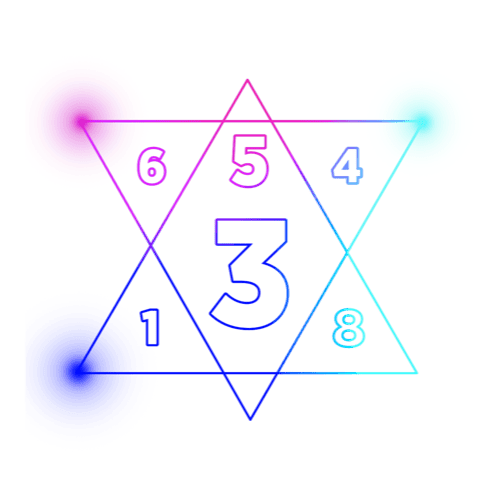
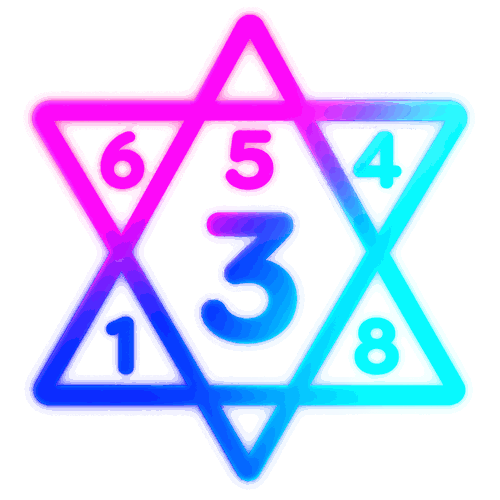
Numeroloji ikonu kalin cizgili; kahve falinda fincan uyarisi yuvalarin altinda

diff --git a/lib/presentation/coffee/coffee_screen.dart b/lib/presentation/coffee/coffee_screen.dart
@@ -47,6 +47,7 @@ class _CoffeeScreenState extends ConsumerState<CoffeeScreen> {
   String? _fincanImage;
   bool _kontrolEdiliyor = false;
   bool _sending = false;
+  bool _fincanYokUyari = false; // ilk görsel yeniden seçilince kalkar
 
   // ── Fal konusu ──────────────────────────────────────────────────────────
   String? _falKonusu;   // null = henüz seçilmedi (konu ekranı gösterilir)
@@ -92,6 +93,7 @@ class _CoffeeScreenState extends ConsumerState<CoffeeScreen> {
     if (_mode == mode) return;
     setState(() {
       _mode = mode;
+      _fincanYokUyari = false;
       _photos.fillRange(0, 3, null);
       _fincanImage = mode == _InputMode.yerimeIc
           ? _fincanImages[Random().nextInt(_fincanImages.length)]
@@ -109,7 +111,10 @@ class _CoffeeScreenState extends ConsumerState<CoffeeScreen> {
       maxWidth: 1200,
     );
     if (image == null || !mounted) return;
-    setState(() => _photos[index] = image.path);
+    setState(() {
+      _photos[index] = image.path;
+      if (index == 0) _fincanYokUyari = false;
+    });
   }
 
   Future<void> _sendFortune() async {
@@ -124,7 +129,10 @@ class _CoffeeScreenState extends ConsumerState<CoffeeScreen> {
     //    En az biri fincan sayılırsa geç; hiçbiri değilse uyar (hak/üretim başlamaz).
     if (_mode == _InputMode.fotoCek || _mode == _InputMode.dosyadan) {
       final paths = [p1, p2, p3].whereType<String>().toList();
-      setState(() => _kontrolEdiliyor = true);
+      setState(() {
+        _kontrolEdiliyor = true;
+        _fincanYokUyari = false;
+      });
       var fincanVar = false;
       try {
         for (final p in paths) {
@@ -138,7 +146,7 @@ class _CoffeeScreenState extends ConsumerState<CoffeeScreen> {
       }
       if (!mounted) return;
       if (!fincanVar) {
-        _showFincanUyari();
+        setState(() => _fincanYokUyari = true);
         return;
       }
     }
@@ -180,30 +188,25 @@ class _CoffeeScreenState extends ConsumerState<CoffeeScreen> {
     context.go('/home');
   }
 
-  // Foto fincan değilse uyarı — fotoğraflar korunur, kullanıcı değiştirip tekrar gönderebilir.
-  void _showFincanUyari() {
-    final s = ref.read(l10nProvider);
-    showDialog<void>(
-      context: context,
-      builder: (ctx) => AlertDialog(
-        backgroundColor: const Color(0xFF17122A),
-        shape: RoundedRectangleBorder(
-          borderRadius: BorderRadius.circular(18),
-          side: const BorderSide(color: Color(0x339C6FD6)),
-        ),
-        content: Text(
-          s.photoNotCup,
-          style: const TextStyle(color: Colors.white, fontSize: 15, height: 1.5),
-        ),
-        actions: [
-          TextButton(
-            onPressed: () => Navigator.of(ctx).pop(),
-            child: Text(s.ok, style: const TextStyle(color: Color(0xFFB8E0FF), fontWeight: FontWeight.w600)),
+  // Foto fincan değilse yuvaların altındaki uyarı; fotoğraflar korunur, ilk görsel değişince kalkar.
+  Widget _buildFincanUyari(AppStrings s) => Semantics(
+        liveRegion: true,
+        child: Padding(
+          key: const ValueKey('coffeeNotCupWarning'),
+          padding: const EdgeInsets.fromLTRB(12, 36, 12, 0),
+          child: Column(
+            children: [
+              const Icon(Icons.warning_rounded, color: Color(0xFFFF3B3B), size: 46),
+              const SizedBox(height: 12),
+              Text(
+                s.photoNotCup,
+                textAlign: TextAlign.center,
+                style: const TextStyle(color: Colors.white, fontSize: 15, height: 1.5),
+              ),
+            ],
           ),
-        ],
-      ),
-    );
-  }
+        ),
+      );
 
   @override
   Widget build(BuildContext context) {
@@ -246,6 +249,7 @@ class _CoffeeScreenState extends ConsumerState<CoffeeScreen> {
                               _mode == _InputMode.dosyadan) ...[
                             const SizedBox(height: 28),
                             _buildPhotoSlots(),
+                            if (_fincanYokUyari) _buildFincanUyari(s),
                             if (_sending) ...[
                               const SizedBox(height: 28),
                               _buildSendingIndicator(),

diff --git a/test/coffee_not_cup_warning_test.dart b/test/coffee_not_cup_warning_test.dart
@@ -1,0 +1,70 @@
+// Kahve falı: fincan görünmeyince uyarı popup değil, yuvaların altında; ilk görsel değişince silinir.
+import 'package:flutter/material.dart';
+import 'package:flutter/services.dart';
+import 'package:flutter_riverpod/flutter_riverpod.dart';
+import 'package:flutter_test/flutter_test.dart';
+import 'package:magnus_app/data/providers.dart';
+import 'package:magnus_app/data/services/photo_subject_detector.dart';
+import 'package:magnus_app/presentation/coffee/coffee_screen.dart';
+import 'package:shared_preferences/shared_preferences.dart';
+
+const _picker = MethodChannel('plugins.flutter.io/image_picker');
+const _warning = ValueKey('coffeeNotCupWarning');
+
+Future<void> _settle(WidgetTester t) async {
+  for (var i = 0; i < 8; i++) {
+    await t.runAsync(() => Future<void>.delayed(const Duration(milliseconds: 5)));
+    await t.pump(const Duration(milliseconds: 50));
+  }
+}
+
+void main() {
+  setUp(() {
+    PhotoSubjectDetector.debugSonuc = (_, __) async => false;
+    TestDefaultBinaryMessengerBinding.instance.defaultBinaryMessenger
+        .setMockMethodCallHandler(_picker, (_) async => 'assets/images/magnusicon.png');
+  });
+  tearDown(() {
+    PhotoSubjectDetector.debugSonuc = null;
+    TestDefaultBinaryMessengerBinding.instance.defaultBinaryMessenger.setMockMethodCallHandler(_picker, null);
+  });
+
+  testWidgets('uyarı yuvaların altında çıkar, popup açılmaz, ilk görsel değişince silinir', (t) async {
+    SharedPreferences.setMockInitialValues({'language_picked': true});
+    final prefs = await SharedPreferences.getInstance();
+    t.view.devicePixelRatio = 3;
+    t.view.physicalSize = const Size(402 * 3, 874 * 3);
+    addTearDown(t.view.reset);
+    await t.pumpWidget(ProviderScope(
+      overrides: [sharedPrefsProvider.overrideWithValue(prefs)],
+      child: const MaterialApp(home: CoffeeScreen()),
+    ));
+    await _settle(t);
+
+    await t.tap(find.text('Genel'));
+    await _settle(t);
+    await t.tap(find.text('Dosyadan'));
+    await _settle(t);
+    for (final n in ['1', '2', '3']) {
+      await t.tap(find.text(n));
+      await _settle(t);
+    }
+
+    await t.tap(find.text('Falımı Gönder'));
+    await _settle(t);
+    expect(find.byKey(_warning), findsOneWidget);
+    expect(find.byType(AlertDialog), findsNothing);
+    expect(find.byIcon(Icons.warning_rounded), findsOneWidget);
+    expect(t.getTopLeft(find.byKey(_warning)).dy,
+        greaterThan(t.getBottomLeft(find.text('1')).dy), reason: 'yuvaların altında');
+
+    await t.tap(find.text('2'));
+    await _settle(t);
+    expect(find.byKey(_warning), findsOneWidget, reason: 'yalnız ilk görsel siler');
+
+    await t.tap(find.text('1'));
+    await _settle(t);
+    expect(find.byKey(_warning), findsNothing);
+    await t.pumpWidget(const SizedBox());
+  });
+}

diff --git a/lib/data/services/photo_subject_detector.dart b/lib/data/services/photo_subject_detector.dart
@@ -13,6 +13,7 @@
 // çalışmaz → sezgiye (ten oranı) düşer; hiçbir koşulda çökmez, belirsizlikte kullanıcıyı engellemez.
 import 'dart:io';
 
+import 'package:flutter/foundation.dart' show visibleForTesting;
 import 'package:image/image.dart' as img;
 
 import 'face_landmarks.dart';
@@ -34,8 +35,14 @@ class PhotoSubjectDetector {
     'laugh', 'forehead'
   };
 
+  /// Yalnız test: sonucu sabitler.
+  @visibleForTesting
+  static Future<bool> Function(String path, FotoKonu konu)? debugSonuc;
+
   /// [path] fotoğrafı [konu] için uygun mu? Yalnız EMİN olunca false; hata/belirsizlik → true.
   static Future<bool> uygunMu(String path, FotoKonu konu) async {
+    final debug = debugSonuc;
+    if (debug != null) return debug(path, konu);
     try {
       final labels = await ImageLabels.etiketler(path); // Set<String>? (null = kullanılamaz)
       bool has(Set<String> s) => labels != null && labels.intersection(s).isNotEmpty;
